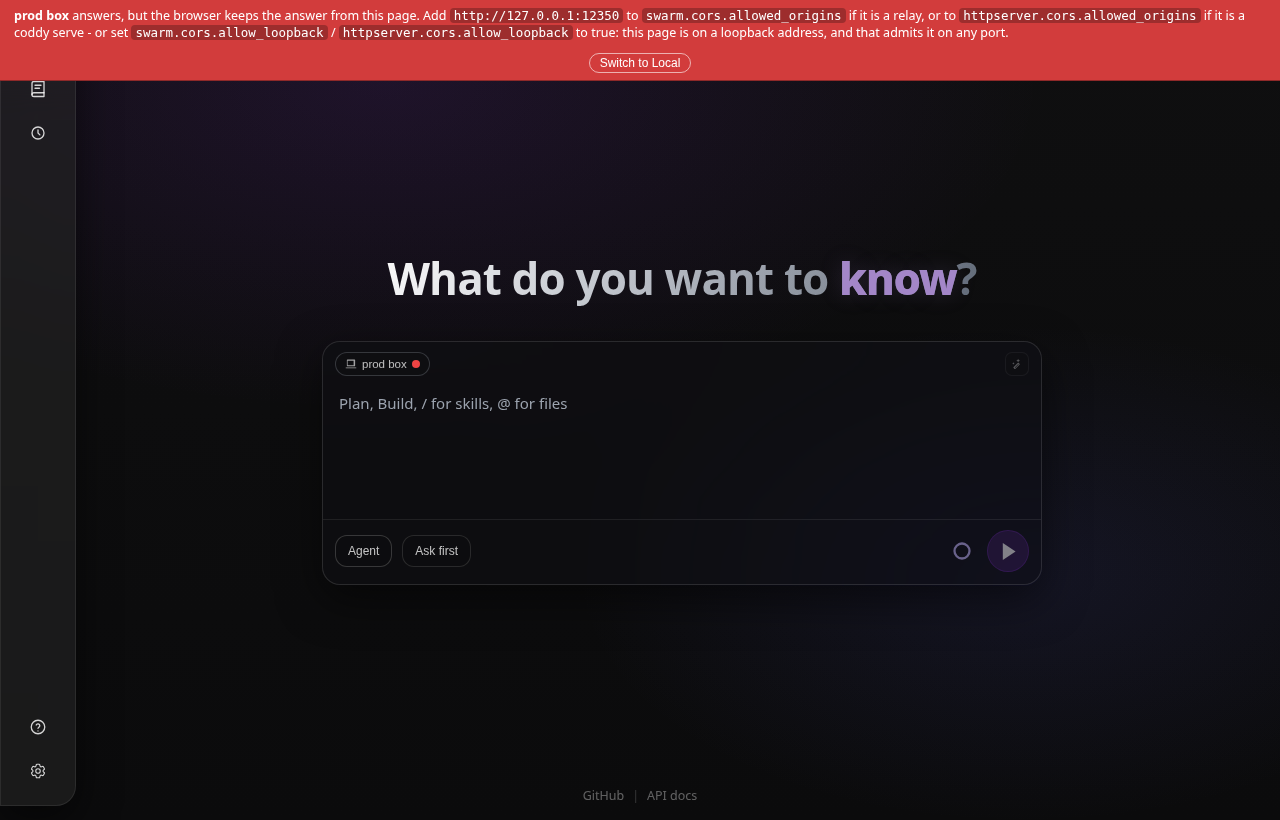
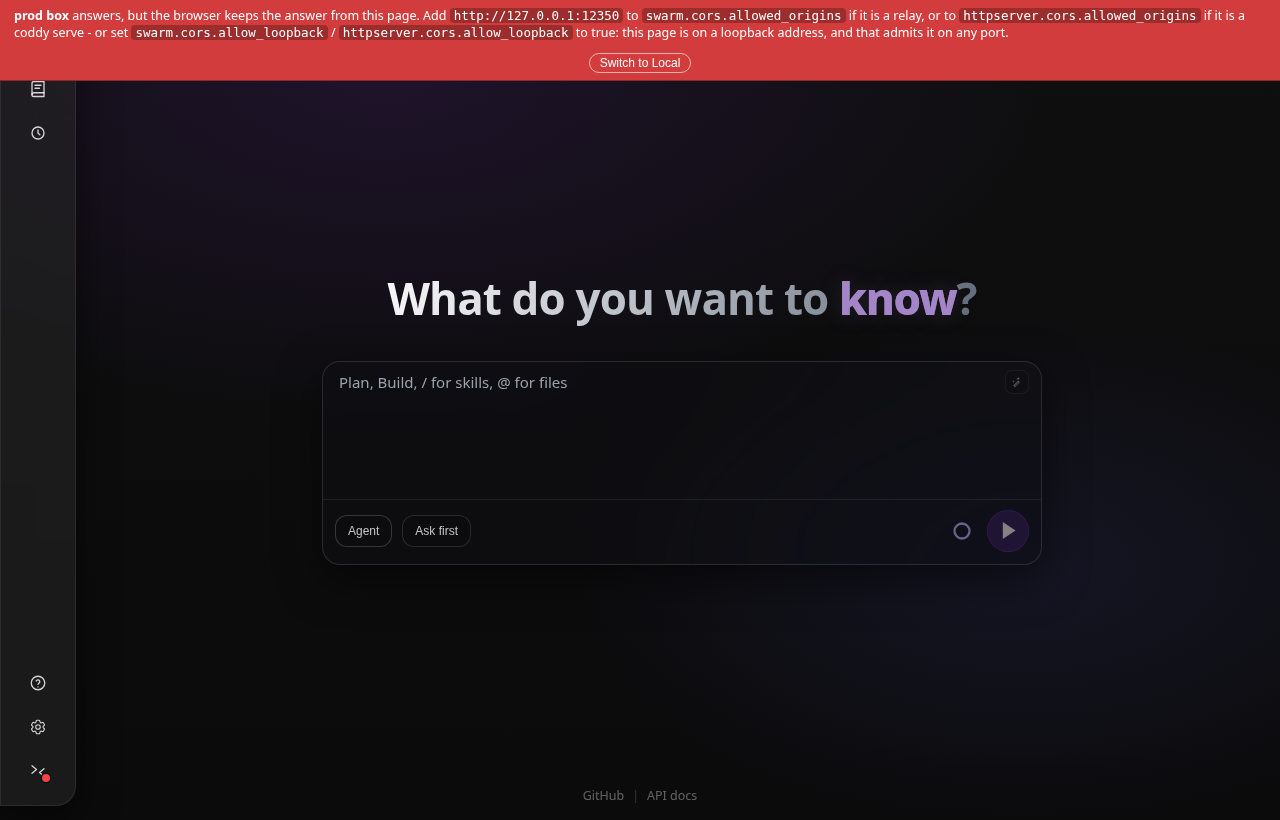
docs(remote): retake the health-alert screenshot on the merged layout
The capture embedded on the remote page showed the alert over the layout from
before upstream moved the environment menu into the nav rail. It is taken again
from the running build of the merged head - a page on a loopback address, a
remote its CORS does not admit, the alert naming the exact-origin list and the
allow_loopback toggle - and the generated assets index follows.

diff --git a/docs/assets/INDEX.md b/docs/assets/INDEX.md
@@ -226,7 +226,7 @@ Generated by `make docs`. "Used by" lists the files that reference the asset.
 
 | File | Size | Used by |
 |------|------|---------|
-| `env-banner-cors-loopback-dark-1280.png` | 244 KB | docs/operate/remote.md |
+| `env-banner-cors-loopback-dark-1280.png` | 246 KB | docs/operate/remote.md |
 
 ### docs/assets/scheduler
 
